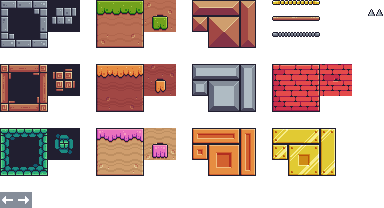
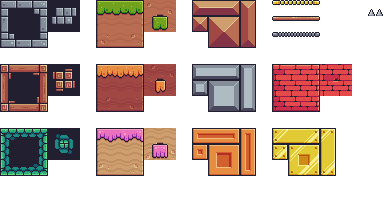
feat: added marker game object for defining boundaries for enemies

Changed region(s): [[0.0, 0.9231, 0.0938, 1.0]]

diff --git a/game/items/marker/marker.go b/game/items/marker/marker.go
@@ -1,0 +1,40 @@
+components {
+  id: "marker"
+  component: "/game/items/marker/marker.script"
+}
+embedded_components {
+  id: "sprite"
+  type: "sprite"
+  data: "default_animation: \"marker\"\n"
+  "material: \"/builtins/materials/sprite.material\"\n"
+  "textures {\n"
+  "  sampler: \"texture_sampler\"\n"
+  "  texture: \"/assets/atlas/platforms-and-items.atlas\"\n"
+  "}\n"
+  ""
+}
+embedded_components {
+  id: "collisionobject"
+  type: "collisionobject"
+  data: "type: COLLISION_OBJECT_TYPE_STATIC\n"
+  "mass: 0.0\n"
+  "friction: 0.1\n"
+  "restitution: 0.5\n"
+  "group: \"marker\"\n"
+  "mask: \"enemy\"\n"
+  "embedded_collision_shape {\n"
+  "  shapes {\n"
+  "    shape_type: TYPE_BOX\n"
+  "    position {\n"
+  "    }\n"
+  "    rotation {\n"
+  "    }\n"
+  "    index: 0\n"
+  "    count: 3\n"
+  "  }\n"
+  "  data: 8.0\n"
+  "  data: 8.0\n"
+  "  data: 10.0\n"
+  "}\n"
+  ""
+}